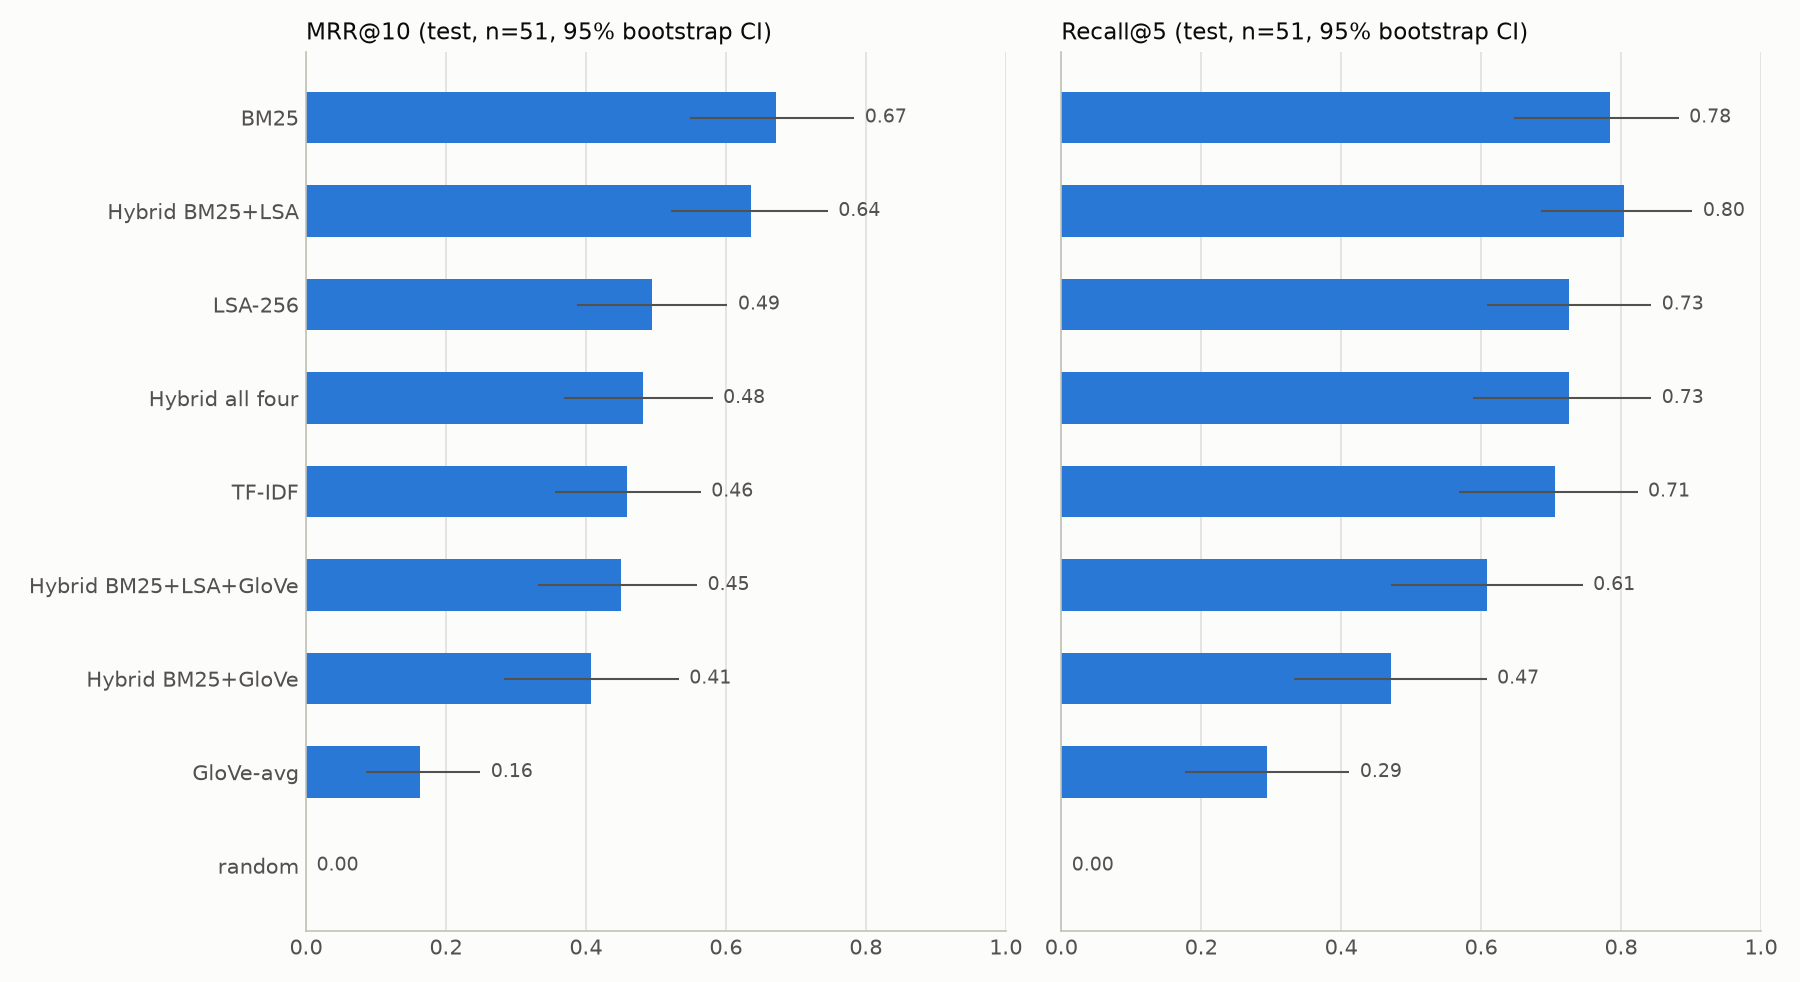
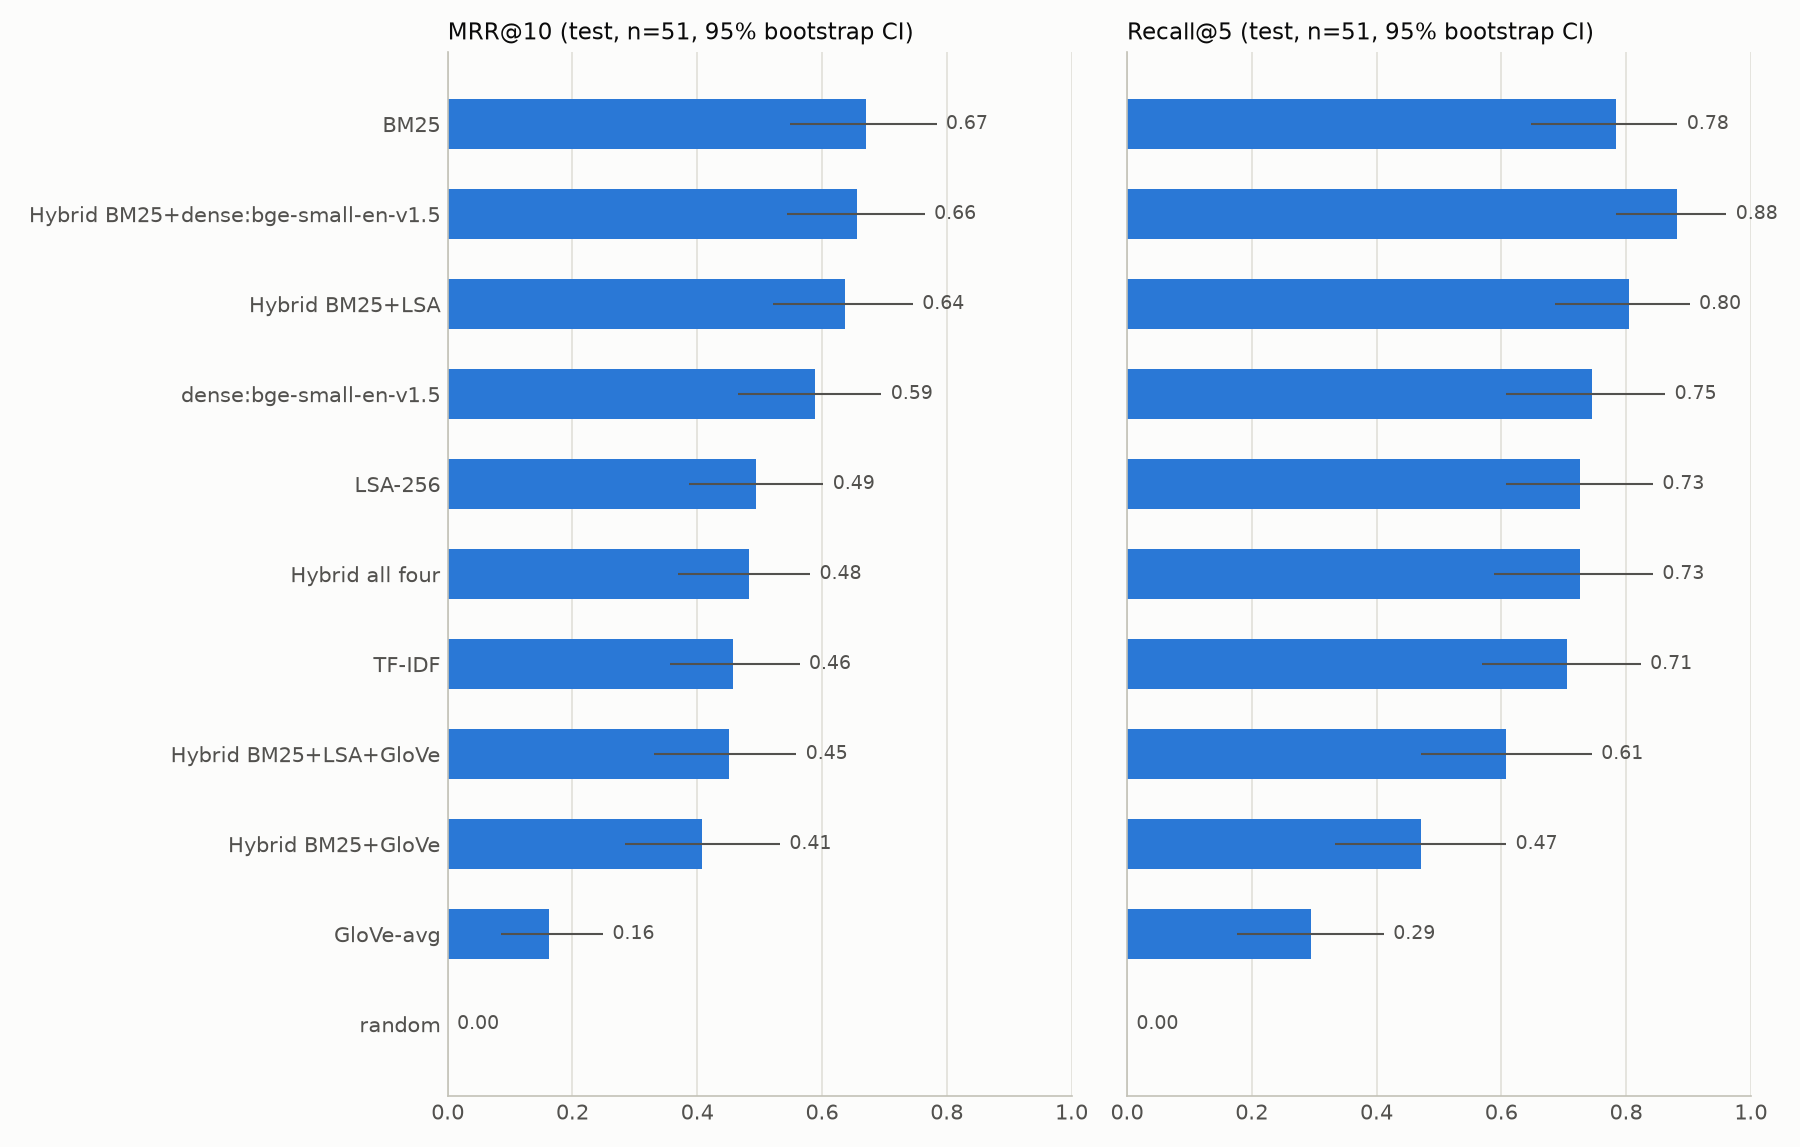
RAG over the scikit-learn docs: retrieval evaluation with dev/test protocol

diff --git a/results/test_results.md b/results/test_results.md
@@ -1,11 +1,13 @@
 | Retriever | Recall@1 | Recall@5 | Recall@10 | MRR@10 | nDCG@10 | ms/query |
 |---|---|---|---|---|---|---|
-| BM25 | 0.57 | 0.78 (0.65-0.88) | 0.88 | 0.671 (0.55-0.78) | 0.566 | 0.9 |
-| Hybrid BM25+LSA | 0.51 | 0.80 (0.69-0.90) | 0.88 | 0.636 (0.52-0.75) | 0.557 | 3.9 |
-| LSA-256 | 0.33 | 0.73 (0.61-0.84) | 0.84 | 0.494 (0.39-0.60) | 0.466 | 2.3 |
-| Hybrid all four | 0.33 | 0.73 (0.59-0.84) | 0.86 | 0.482 (0.37-0.58) | 0.448 | 5.3 |
-| TF-IDF | 0.29 | 0.71 (0.57-0.82) | 0.84 | 0.458 (0.36-0.56) | 0.416 | 1.5 |
-| Hybrid BM25+LSA+GloVe | 0.33 | 0.61 (0.47-0.75) | 0.80 | 0.450 (0.33-0.56) | 0.397 | 4.1 |
-| Hybrid BM25+GloVe | 0.33 | 0.47 (0.33-0.61) | 0.61 | 0.408 (0.28-0.53) | 0.327 | 1.2 |
-| GloVe-avg | 0.08 | 0.29 (0.18-0.41) | 0.33 | 0.163 (0.09-0.25) | 0.144 | 0.1 |
-| random | 0.00 | 0.00 (0.00-0.00) | 0.00 | 0.000 (0.00-0.00) | 0.000 | 0.0 |
+| BM25 | 0.57 | 0.78 (0.65-0.88) | 0.88 | 0.671 (0.55-0.78) | 0.566 | 1.3 |
+| Hybrid BM25+dense:bge-small-en-v1.5 | 0.51 | 0.88 (0.78-0.96) | 0.88 | 0.657 (0.54-0.76) | 0.579 | 313.6 |
+| Hybrid BM25+LSA | 0.51 | 0.80 (0.69-0.90) | 0.88 | 0.636 (0.52-0.75) | 0.557 | 3.7 |
+| dense:bge-small-en-v1.5 | 0.45 | 0.75 (0.61-0.86) | 0.82 | 0.589 (0.46-0.70) | 0.506 | 214.2 |
+| LSA-256 | 0.33 | 0.73 (0.61-0.84) | 0.84 | 0.494 (0.39-0.60) | 0.466 | 2.6 |
+| Hybrid all four | 0.33 | 0.73 (0.59-0.84) | 0.86 | 0.482 (0.37-0.58) | 0.448 | 6.0 |
+| TF-IDF | 0.29 | 0.71 (0.57-0.82) | 0.84 | 0.458 (0.36-0.56) | 0.416 | 1.6 |
+| Hybrid BM25+LSA+GloVe | 0.33 | 0.61 (0.47-0.75) | 0.80 | 0.450 (0.33-0.56) | 0.397 | 3.8 |
+| Hybrid BM25+GloVe | 0.33 | 0.47 (0.33-0.61) | 0.61 | 0.408 (0.28-0.53) | 0.327 | 1.1 |
+| GloVe-avg | 0.08 | 0.29 (0.18-0.41) | 0.33 | 0.163 (0.09-0.25) | 0.144 | 0.2 |
+| random | 0.00 | 0.00 (0.00-0.00) | 0.00 | 0.000 (0.00-0.00) | 0.000 | 0.1 |
